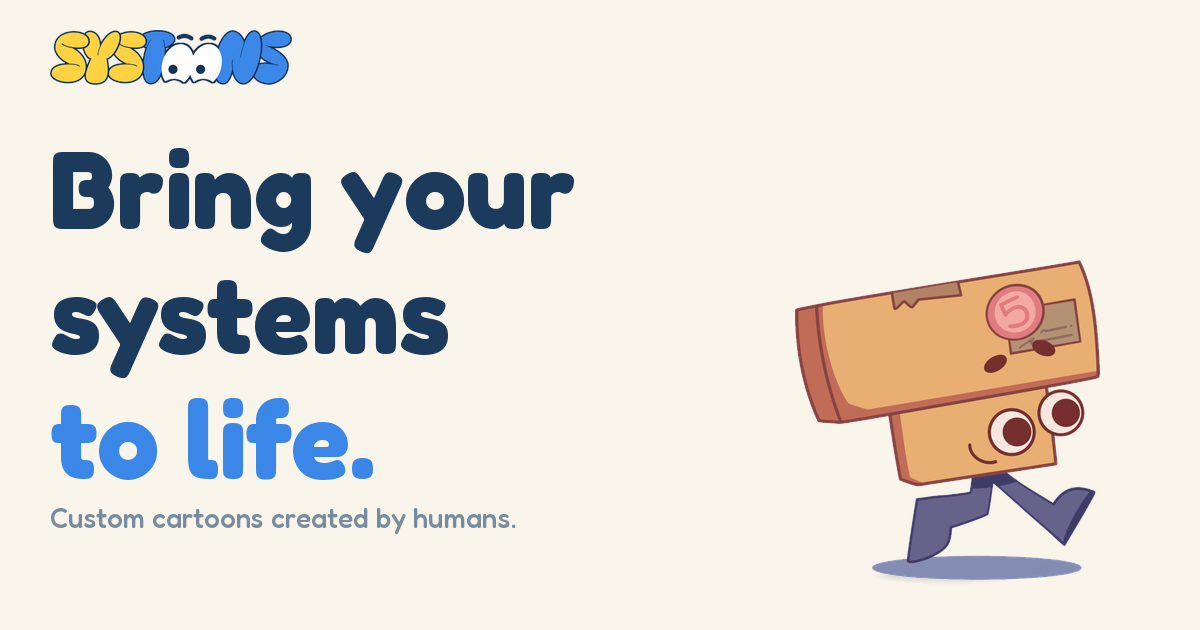
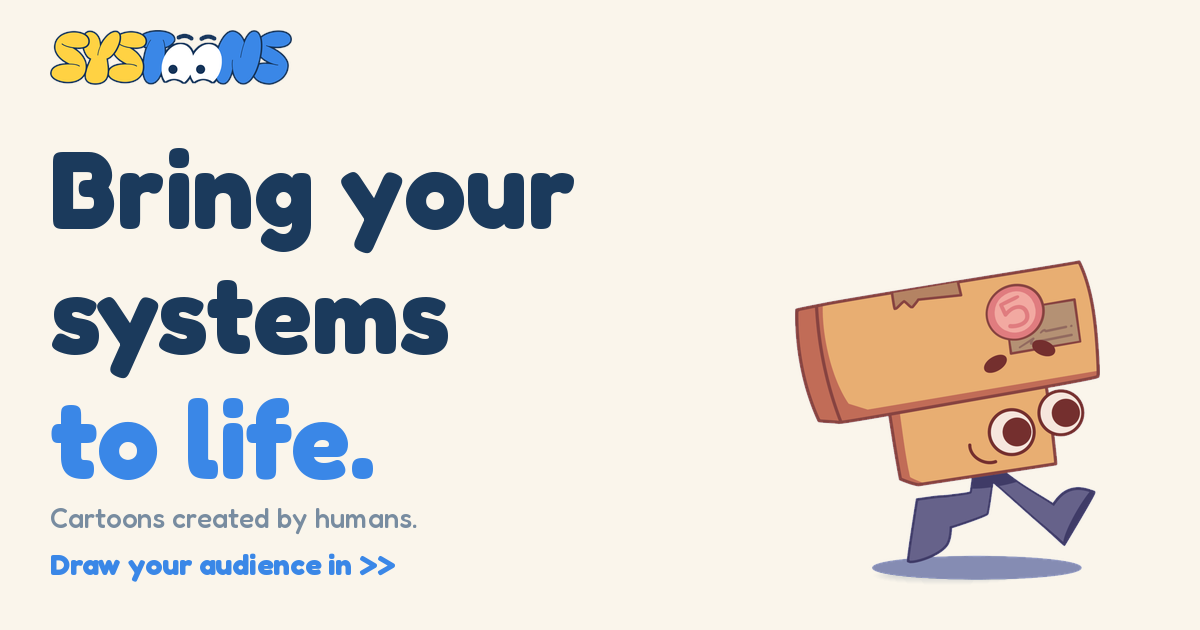
Update OG title and revert description
- Title: 'Systoons - Cartoons created by humans.'
- Description reverted to descriptive copy with CTA
- OG image: subtitle 'Cartoons created by humans.' + CTA 'Draw your audience in >>'

Changed region(s): [[0.0308, 0.8746, 0.3392, 0.9349], [0.0617, 0.8143, 0.4317, 0.8444]]

diff --git a/index.html b/index.html
@@ -6,19 +6,19 @@
   <title>Systoons — Bring Your Systems to Life</title>
 
   <!-- Open Graph -->
-  <meta property="og:title" content="Systoons — Bring Your Systems to Life">
-  <meta property="og:description" content="Custom cartoons created by humans.">
+  <meta property="og:title" content="Systoons - Cartoons created by humans.">
+  <meta property="og:description" content="We turn complex systems and processes into playful, engaging animations. Draw your audience in — start your creation today.">
   <meta property="og:image" content="https://systoons.com/assets/og-image.png">
   <meta property="og:url" content="https://systoons.com">
   <meta property="og:type" content="website">
 
   <!-- Twitter Card -->
   <meta name="twitter:card" content="summary_large_image">
-  <meta name="twitter:title" content="Systoons — Bring Your Systems to Life">
-  <meta name="twitter:description" content="Custom cartoons created by humans.">
+  <meta name="twitter:title" content="Systoons - Cartoons created by humans.">
+  <meta name="twitter:description" content="We turn complex systems and processes into playful, engaging animations. Draw your audience in — start your creation today.">
   <meta name="twitter:image" content="https://systoons.com/assets/og-image.png">
 
-  <meta name="description" content="Custom cartoons created by humans.">
+  <meta name="description" content="We turn complex systems and processes into playful, engaging animations. Draw your audience in — start your creation today.">
   <link rel="icon" type="image/png" href="assets/logo-short.png">
   <link rel="preconnect" href="https://fonts.googleapis.com">
   <link href="https://fonts.googleapis.com/css2?family=Fredoka:wght@400;500;600;700&family=Nunito:wght@400;600;700&display=swap" rel="stylesheet">
